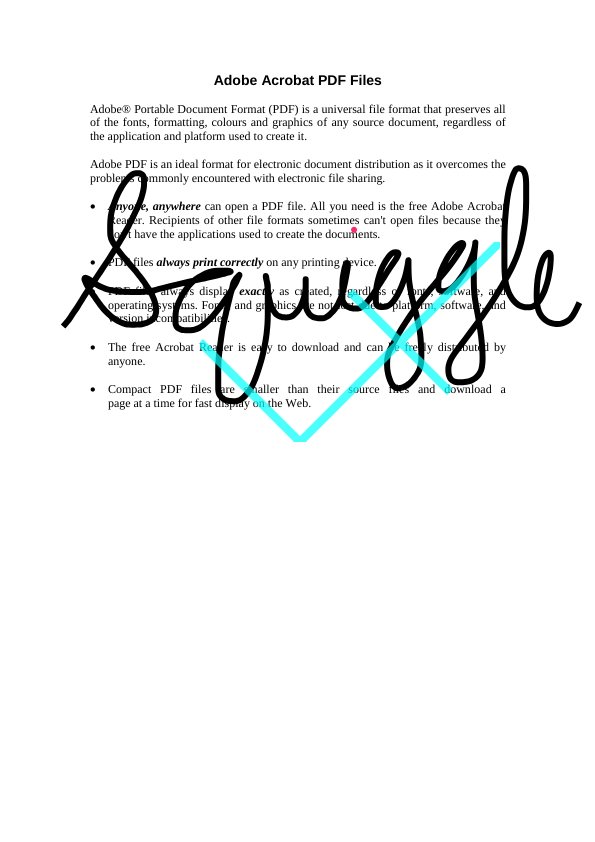
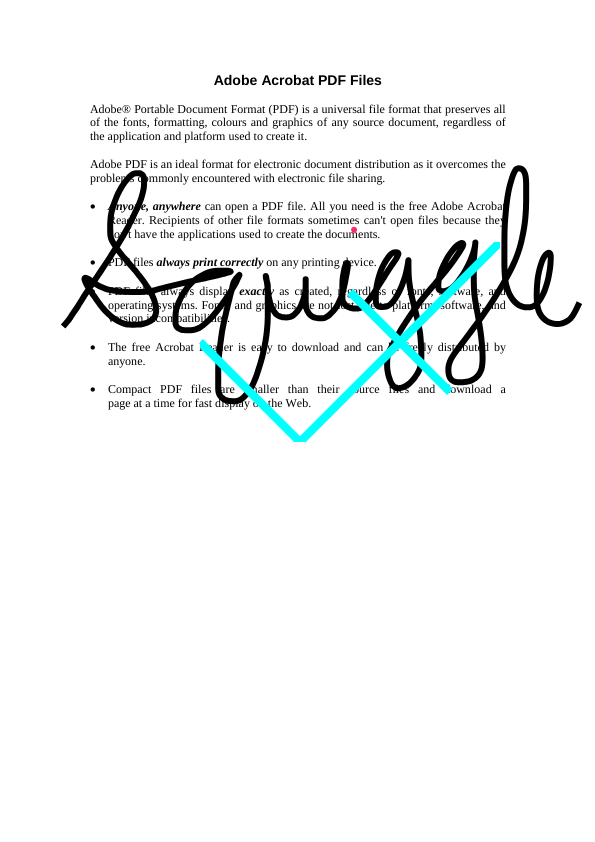
WIP: Fix shared form XObjects
CPDF_AnnotContext::SetForm() takes in a CPDF_Stream and mutates its
matrix to the identity matrix. This causes the matrix values to
incorrectly change when a shared form XObject is first accessed directly
(annotation 1 -> shared form obj), then indirectly (annotation 2 ->
wrapper form obj -> shared form obj).

Fix this by cloning the PDF stream and mutating the clone instead.

Bug: 475719025

diff --git a/core/fpdfapi/page/cpdf_annotcontext.cpp b/core/fpdfapi/page/cpdf_annotcontext.cpp
@@ -29,11 +29,15 @@ void CPDF_AnnotContext::SetForm(RetainPtr<CPDF_Stream> pStream) {
     return;
   }
 
+  // Clone `pStream` to avoid mutating the original stream.
+  RetainPtr<CPDF_Stream> new_stream = ToStream(pStream->Clone());
+
   // Reset the annotation matrix to be the identity matrix, since the
   // appearance stream already takes matrix into account.
-  pStream->GetMutableDict()->SetMatrixFor("Matrix", CFX_Matrix());
+  new_stream->GetMutableDict()->SetMatrixFor("Matrix", CFX_Matrix());
 
   annot_form_ = std::make_unique<CPDF_Form>(
-      page_->GetDocument(), page_->AsPDFPage()->GetMutableResources(), pStream);
+      page_->GetDocument(), page_->AsPDFPage()->GetMutableResources(),
+      std::move(new_stream));
   annot_form_->ParseContent();
 }

diff --git a/fpdfsdk/fpdf_annot_embeddertest.cpp b/fpdfsdk/fpdf_annot_embeddertest.cpp
@@ -3971,8 +3971,6 @@ TEST_F(FPDFAnnotEmbedderTest, SharedFormXObjectMatrix) {
   EXPECT_FLOAT_EQ(0.0f, matrix2.b);
   EXPECT_FLOAT_EQ(0.0f, matrix2.c);
   EXPECT_FLOAT_EQ(1.0f, matrix2.d);
-  // TODO(crbug.com/475719025): Should be -10.395f.
-  EXPECT_FLOAT_EQ(156.1774f, matrix2.e);
-  // TODO(crbug.com/475719025): Should be -5.42212f.
-  EXPECT_FLOAT_EQ(681.1501f, matrix2.f);
+  EXPECT_FLOAT_EQ(-10.395f, matrix2.e);
+  EXPECT_FLOAT_EQ(-5.42212f, matrix2.f);
 }
